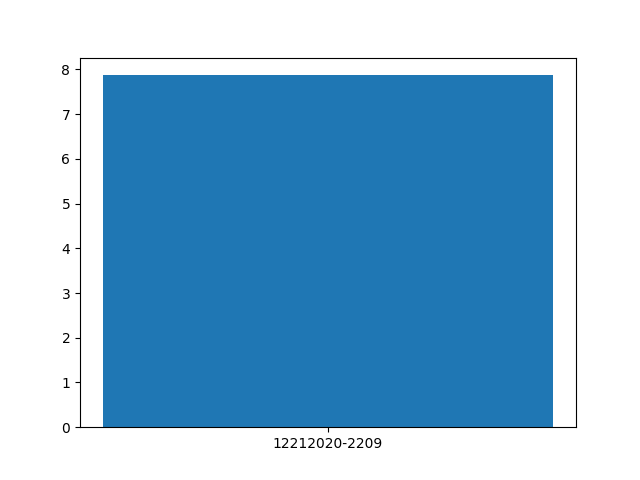
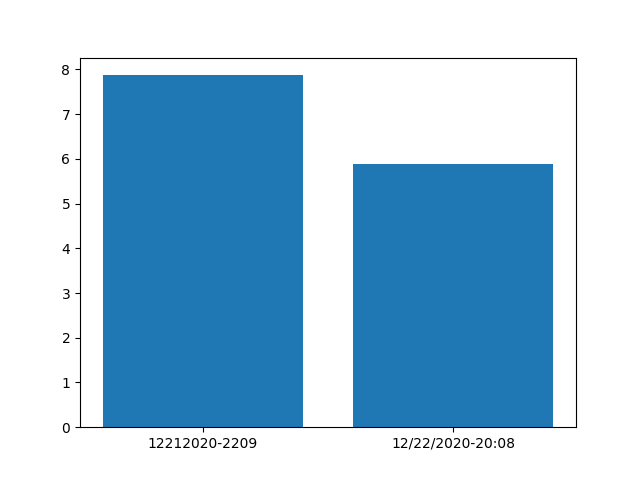
1.1.1 - Fixing Plot Cache + Path bug
- Added plt.clf() to prevent each plot being additive from previous loops
- Fixed path bug for difference calculations (wasn't saving in correct folders)

Changed region(s): [[0.2188, 0.1562, 0.875, 0.9375]]

diff --git a/Report.html b/Report.html
@@ -208,23 +208,23 @@
 
             
     <div class="clearfix snippet-container">
-                <div class="clearfix" style="margin-top25px;"><h2>LandmarkTest, https://www.landmarkhealth.org/</h2><br><p>12/21/2020 - 22:09</p></div>
+                <div class="clearfix" style="margin-top25px;"><h2>LandmarkTest, https://www.landmarkhealth.org/</h2><br><p>12/22/2020 - 20:18</p></div>
 
-                    <div><img src="results/LandmarkTestdiffplot.png"></div>
+                    <div><img src="results/LandmarkTest/diffplot.png"></div>
 
                     <div class="clearfix"><div class="image-container">
 
                         <h3>Current Site</h3>
 
-                        <a href="results/LandmarkTest/LandmarkTest-12212020-2209.jpg"><img class="imagediff" src="results/LandmarkTest/LandmarkTest-12212020-2209.jpg"></a>
+                        <a href="results/LandmarkTest/LandmarkTest-12222020-2018.jpg"><img class="imagediff" src="results/LandmarkTest/LandmarkTest-12222020-2018.jpg"></a>
 
                     </div>    
 
                     <div class="image-container">
 
-                        <h3>Comparative Differences (7.87%)</h3>
+                        <h3>Comparative Differences (3.54%)</h3>
 
-                        <a href="results/LandmarkTest/differences-12212020-2209.jpg"><img class="imagediff" src="results/LandmarkTest/differences-12212020-2209.jpg"></a>
+                        <a href="results/LandmarkTest/differences-12222020-2018.jpg"><img class="imagediff" src="results/LandmarkTest/differences-12222020-2018.jpg"></a>
 
                     </div>
 
@@ -232,7 +232,7 @@
 
                         <h3>Previous Capture</h3>
 
-                        <a href="results/LandmarkTest/LandmarkTest-12212020-2102.jpg"><img class="imagediff" src="results/LandmarkTest/LandmarkTest-12212020-2102.jpg"></a>
+                        <a href="results/LandmarkTest/LandmarkTest-12222020-2014.jpg"><img class="imagediff" src="results/LandmarkTest/LandmarkTest-12222020-2014.jpg"></a>
 
                     </div>
 
@@ -241,23 +241,23 @@
 
                 
     <div class="clearfix snippet-container">
-                <div class="clearfix" style="margin-top25px;"><h2>Roman, https://www.romandesign.co/</h2><br><p>12/21/2020 - 22:09</p></div>
+                <div class="clearfix" style="margin-top25px;"><h2>Roman, https://www.romandesign.co/</h2><br><p>12/22/2020 - 20:18</p></div>
 
-                    <div><img src="results/Romandiffplot.png"></div>
+                    <div><img src="results/Roman/diffplot.png"></div>
 
                     <div class="clearfix"><div class="image-container">
 
                         <h3>Current Site</h3>
 
-                        <a href="results/Roman/Roman-12212020-2209.jpg"><img class="imagediff" src="results/Roman/Roman-12212020-2209.jpg"></a>
+                        <a href="results/Roman/Roman-12222020-2018.jpg"><img class="imagediff" src="results/Roman/Roman-12222020-2018.jpg"></a>
 
                     </div>    
 
                     <div class="image-container">
 
-                        <h3>Comparative Differences (0.88%)</h3>
+                        <h3>Comparative Differences (0.0%)</h3>
 
-                        <a href="results/Roman/differences-12212020-2209.jpg"><img class="imagediff" src="results/Roman/differences-12212020-2209.jpg"></a>
+                        <a href="results/Roman/differences-12222020-2018.jpg"><img class="imagediff" src="results/Roman/differences-12222020-2018.jpg"></a>
 
                     </div>
 
@@ -265,7 +265,7 @@
 
                         <h3>Previous Capture</h3>
 
-                        <a href="results/Roman/Roman-12202020-2020.jpg"><img class="imagediff" src="results/Roman/Roman-12202020-2020.jpg"></a>
+                        <a href="results/Roman/Roman-12222020-2014.jpg"><img class="imagediff" src="results/Roman/Roman-12222020-2014.jpg"></a>
 
                     </div>
 

diff --git a/results/LandmarkTest-snippets.html b/results/LandmarkTest-snippets.html
@@ -1,21 +1,21 @@
     <div class="clearfix snippet-container">
-                <div class="clearfix" style="margin-top25px;"><h2>LandmarkTest, https://www.landmarkhealth.org/</h2><br><p>12/21/2020 - 22:09</p></div>
+                <div class="clearfix" style="margin-top25px;"><h2>LandmarkTest, https://www.landmarkhealth.org/</h2><br><p>12/22/2020 - 20:18</p></div>
 
-                    <div><img src="results/LandmarkTestdiffplot.png"></div>
+                    <div><img src="results/LandmarkTest/diffplot.png"></div>
 
                     <div class="clearfix"><div class="image-container">
 
                         <h3>Current Site</h3>
 
-                        <a href="results/LandmarkTest/LandmarkTest-12212020-2209.jpg"><img class="imagediff" src="results/LandmarkTest/LandmarkTest-12212020-2209.jpg"></a>
+                        <a href="results/LandmarkTest/LandmarkTest-12222020-2018.jpg"><img class="imagediff" src="results/LandmarkTest/LandmarkTest-12222020-2018.jpg"></a>
 
                     </div>    
 
                     <div class="image-container">
 
-                        <h3>Comparative Differences (7.87%)</h3>
+                        <h3>Comparative Differences (3.54%)</h3>
 
-                        <a href="results/LandmarkTest/differences-12212020-2209.jpg"><img class="imagediff" src="results/LandmarkTest/differences-12212020-2209.jpg"></a>
+                        <a href="results/LandmarkTest/differences-12222020-2018.jpg"><img class="imagediff" src="results/LandmarkTest/differences-12222020-2018.jpg"></a>
 
                     </div>
 
@@ -23,7 +23,7 @@
 
                         <h3>Previous Capture</h3>
 
-                        <a href="results/LandmarkTest/LandmarkTest-12212020-2102.jpg"><img class="imagediff" src="results/LandmarkTest/LandmarkTest-12212020-2102.jpg"></a>
+                        <a href="results/LandmarkTest/LandmarkTest-12222020-2014.jpg"><img class="imagediff" src="results/LandmarkTest/LandmarkTest-12222020-2014.jpg"></a>
 
                     </div>
 

diff --git a/results/Roman-snippets.html b/results/Roman-snippets.html
@@ -1,21 +1,21 @@
     <div class="clearfix snippet-container">
-                <div class="clearfix" style="margin-top25px;"><h2>Roman, https://www.romandesign.co/</h2><br><p>12/21/2020 - 22:09</p></div>
+                <div class="clearfix" style="margin-top25px;"><h2>Roman, https://www.romandesign.co/</h2><br><p>12/22/2020 - 20:18</p></div>
 
-                    <div><img src="results/Romandiffplot.png"></div>
+                    <div><img src="results/Roman/diffplot.png"></div>
 
                     <div class="clearfix"><div class="image-container">
 
                         <h3>Current Site</h3>
 
-                        <a href="results/Roman/Roman-12212020-2209.jpg"><img class="imagediff" src="results/Roman/Roman-12212020-2209.jpg"></a>
+                        <a href="results/Roman/Roman-12222020-2018.jpg"><img class="imagediff" src="results/Roman/Roman-12222020-2018.jpg"></a>
 
                     </div>    
 
                     <div class="image-container">
 
-                        <h3>Comparative Differences (0.88%)</h3>
+                        <h3>Comparative Differences (0.0%)</h3>
 
-                        <a href="results/Roman/differences-12212020-2209.jpg"><img class="imagediff" src="results/Roman/differences-12212020-2209.jpg"></a>
+                        <a href="results/Roman/differences-12222020-2018.jpg"><img class="imagediff" src="results/Roman/differences-12222020-2018.jpg"></a>
 
                     </div>
 
@@ -23,7 +23,7 @@
 
                         <h3>Previous Capture</h3>
 
-                        <a href="results/Roman/Roman-12202020-2020.jpg"><img class="imagediff" src="results/Roman/Roman-12202020-2020.jpg"></a>
+                        <a href="results/Roman/Roman-12222020-2014.jpg"><img class="imagediff" src="results/Roman/Roman-12222020-2014.jpg"></a>
 
                     </div>
 

diff --git a/crawwwly.py b/crawwwly.py
@@ -207,7 +207,7 @@ with open('domains.csv') as domainCSV:
                    white += 1
                 else:
                     other += 1
-            print('white=' + str(white)+', Other='+str(other))
+            # print('white=' + str(white)+', Other='+str(other)) Testing calculations.
 
             calcDiff = (other / (white + other) * 100)
             diffPercentageRounded = str(round(calcDiff, 2)) #Same thing, but rounded as a two decimal variable
@@ -222,8 +222,8 @@ with open('domains.csv') as domainCSV:
             
             datestamp2 = now.strftime("%m/%d/%Y-%H:%M")
             stringDatestamp = str(datestamp2)
-            
-            DiffLog = Path(path + "diff-history.csv")
+
+            DiffLog = Path(path + '/' + "diff-history.csv")
 
             if DiffLog.is_file():
                 writeDiffLog = open(DiffLog,"a+") # open in append mode
@@ -241,15 +241,17 @@ with open('domains.csv') as domainCSV:
             # CREATE BAR CHART
             ###################################################
 
-            dataframeDiff = pd.read_csv(path + "diff-history.csv")
+            dataframeDiff = pd.read_csv(path + '/' + "diff-history.csv")
             
-            #print (dataframeDiff) # Testing data that was read.
+            # print (dataframeDiff) # Testing data that was read.
 
             diffplot = plt.bar(x=dataframeDiff['timestamp'], height=dataframeDiff['difference'])
 
-            plt.savefig(path + "diffplot.png")
+            plt.savefig(path + '/' + "diffplot.png")
 
-            plotPath = str(path + "diffplot.png") # save plotpath as a variable for future reference
+            plt.clf() # Clean plot cache so that it doesn't keep adding every loop.
+
+            plotPath = str(path + '/' + "diffplot.png") # save plotpath as a variable for future reference
 
             ###################################################
             # BUILD HTML REPORT SNIPPETS

diff --git a/Development Files/Diff Percentage/plot.py b/Development Files/Diff Percentage/plot.py
@@ -19,6 +19,8 @@ diffplot = plt.bar(x=dataframeDiff['timestamp'], height=dataframeDiff['differenc
 
 plt.savefig('diffplot.png')
 
+plt.close()
+
 
 """
 s = pd.Series([1, 2, 3])
@@ -31,5 +33,6 @@ fig.savefig('my_plot.png')
 NOTES:
 
 - https://stackoverflow.com/questions/49015957/how-to-get-python-graph-output-into-html-webpage-directly
+- HAve to close plot to not keep adding incremental changes in loop: https://stackoverflow.com/questions/37734512/savefig-loop-adds-previous-plots-to-figure
 
 """
